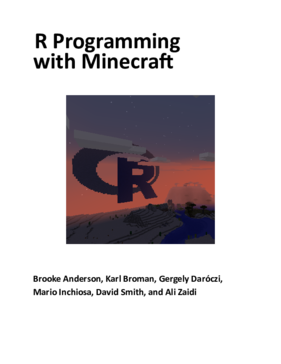
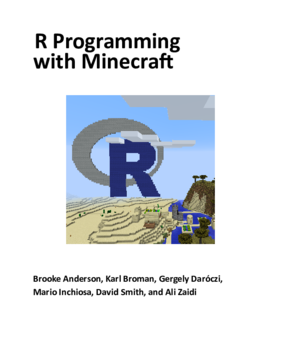
Brighter cover image + medium-sized one within Intro

Changed region(s): [[0.2278, 0.2418, 0.7687, 0.6951]]

diff --git a/docs/index.html b/docs/index.html
@@ -25,7 +25,7 @@
 <meta name="author" content="Brooke Anderson, Karl Broman, Gergely Daróczi, Mario Inchiosa, David Smith, and Ali Zaidi">
 
 
-<meta name="date" content="2017-05-31">
+<meta name="date" content="2017-06-01">
 
   <meta name="viewport" content="width=device-width, initial-scale=1">
   <meta name="apple-mobile-web-app-capable" content="yes">
@@ -167,11 +167,11 @@ code > span.in { color: #60a0b0; font-weight: bold; font-style: italic; } /* Inf
 <div id="header">
 <h1 class="title">R Programming with Minecraft</h1>
 <h4 class="author"><em>Brooke Anderson, Karl Broman, Gergely Daróczi, Mario Inchiosa, David Smith, and Ali Zaidi</em></h4>
-<h4 class="date"><em>2017-05-31</em></h4>
+<h4 class="date"><em>2017-06-01</em></h4>
 </div>
 <div id="introduction" class="section level1">
 <h1><span class="header-section-number">1</span> Introduction</h1>
-<p><img src="cover_sm.png"/></p>
+<p><img src="cover_med.png"/></p>
 <p><a href="https://minecraft.net">Minecraft</a> is awesome fun, especially in creative mode, where you can build all sorts of crazy stuff. But ambitious building projects can be really tedious to create by hand. With the <a href="https://github.com/ropenscilabs/miner">miner R package</a>, you can write <a href="https://www.r-project.org">R</a> code to manipulate your Minecraft world and create even more awesome stuff.</p>
 <p>We developed the <a href="https://github.com/ROpenSciLabs/miner">miner</a> package and most of the examples in this book at the <a href="https://ropensci.org">ROpenSci</a> Unconference in Los Angeles, California, in May, 2017. We are grateful to ROpenSci for bringing us together.</p>
 <p>Our work on R and Minecraft was inspired by an example at <a href="http://smarterpoland.pl" class="uri">http://smarterpoland.pl</a> using R to make a <a href="http://smarterpoland.pl/index.php/2016/09/minecharts-1-minecraft-r-edgar-andersons-iris-data/">3D scatterplot in minecraft</a>, and by <a href="https://twitter.com/craigargh">Craig Richardson</a>’s book <a href="https://www.nostarch.com/programwithminecraft">Learn to Program with Minecraft</a> <span class="citation">(Richardson <a href="#ref-richardson2016">2016</a>)</span>.</p>

diff --git a/docs/index.md b/docs/index.md
@@ -1,7 +1,7 @@
 ---
 title: "R Programming with Minecraft"
 author: "Brooke Anderson, Karl Broman, Gergely Daróczi, Mario Inchiosa, David Smith, and Ali Zaidi"
-date: "2017-05-31"
+date: "2017-06-01"
 output: bookdown::gitbook
 site: bookdown::bookdown_site
 cover-image: "cover_sm.png"
@@ -14,7 +14,7 @@ description: "The miner R package allows you to interact with Minecraft using th
 
 # Introduction
 
-<img src="cover_sm.png"/>
+<img src="cover_med.png"/>
 
 [Minecraft](https://minecraft.net) is awesome fun, especially in
 creative mode, where you can build all sorts of crazy stuff. But
